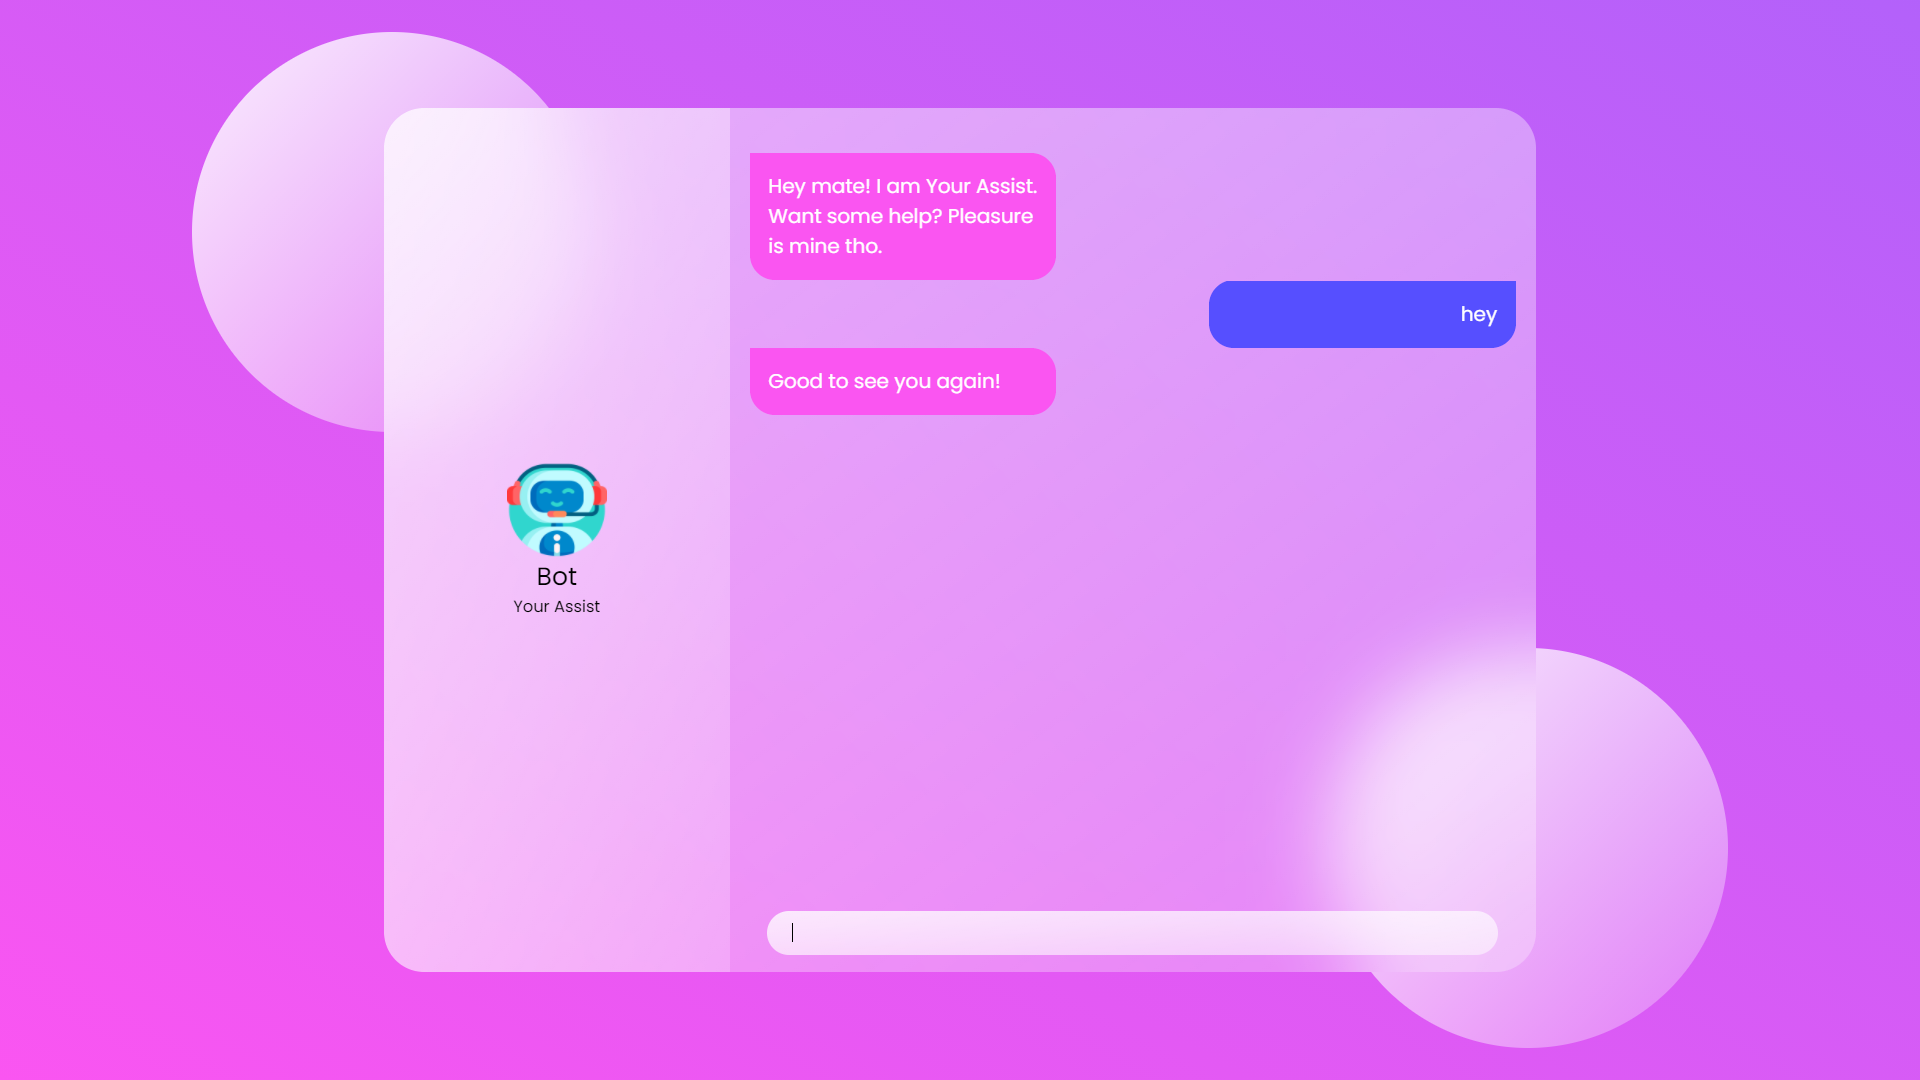
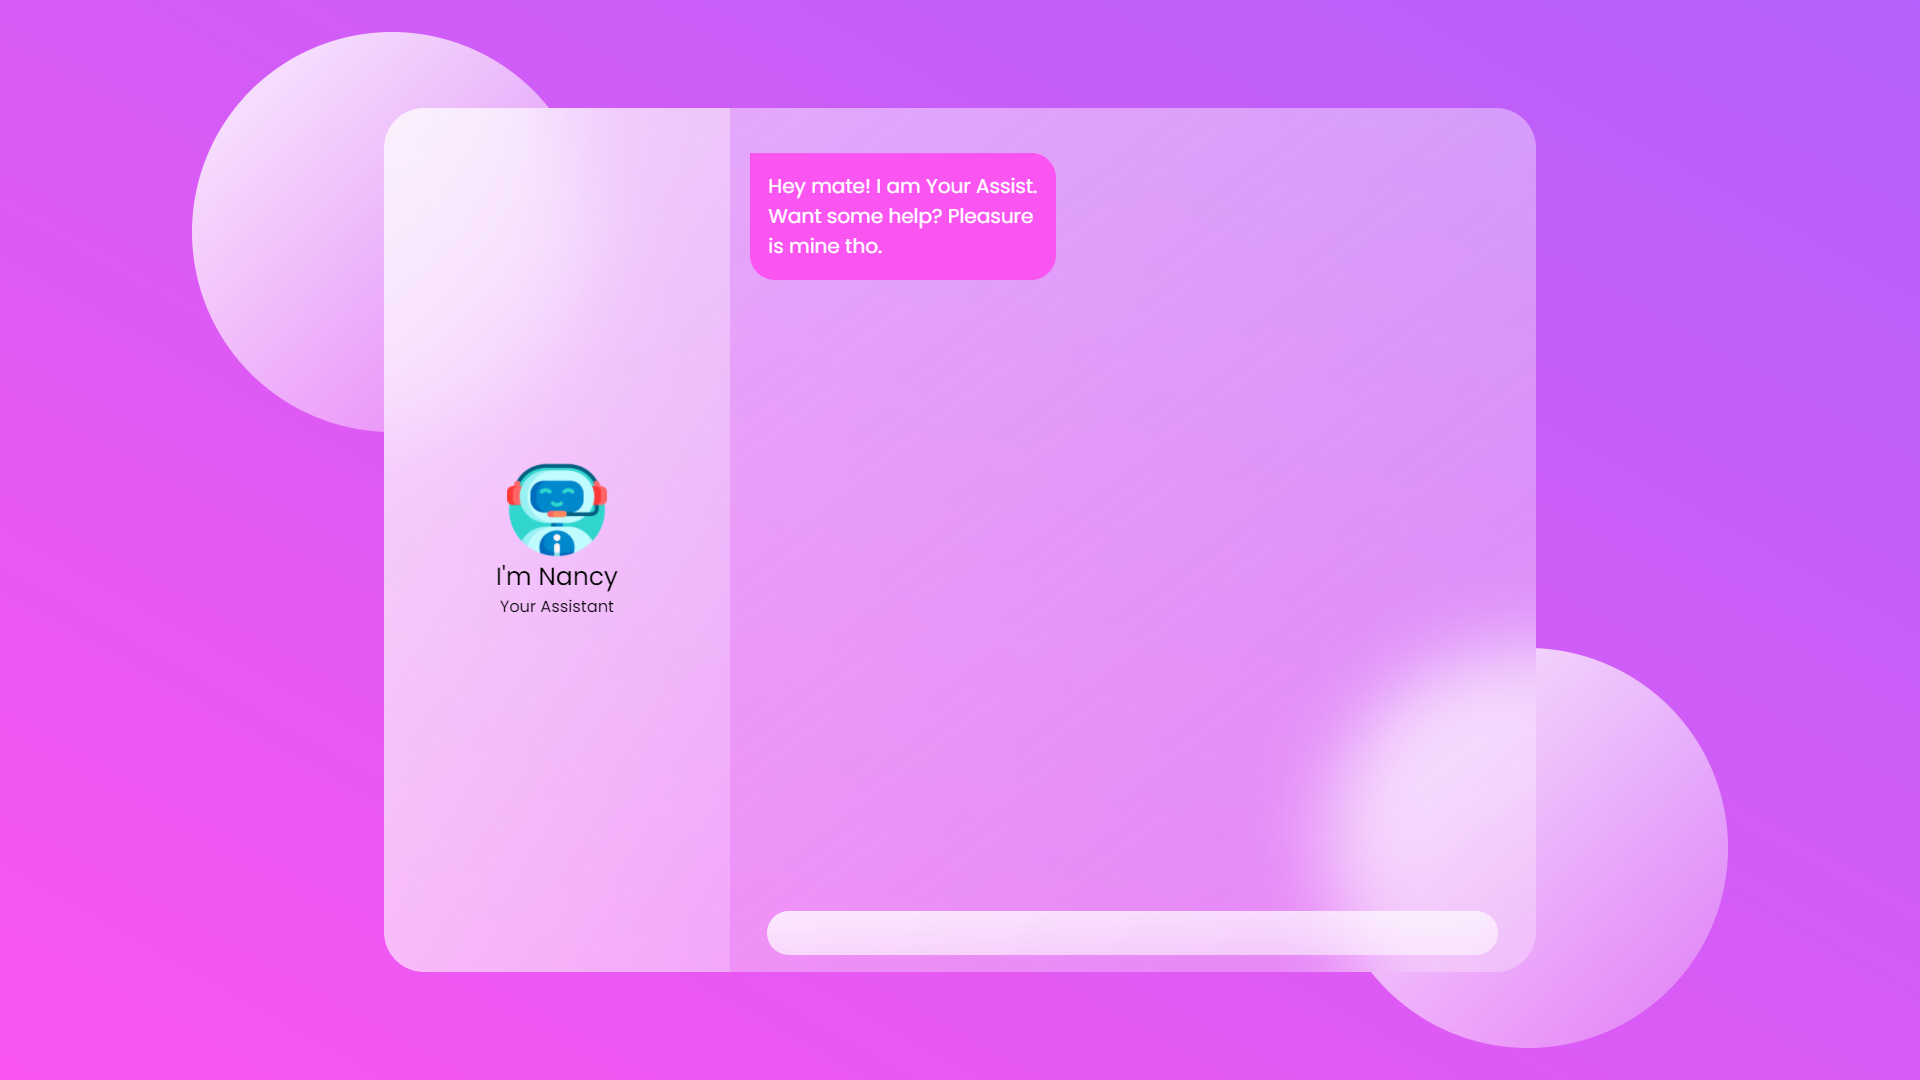
issue fix

Changed region(s): [[0.375, 0.3056, 0.5625, 0.3972], [0.625, 0.2444, 0.8125, 0.3361], [0.25, 0.5194, 0.3125, 0.5806]]

diff --git a/templates/index.html b/templates/index.html
@@ -13,8 +13,8 @@
             <div class="dashboard">
                 <div class="bot">
                     <img src="static/bot.png" alt="bot" height="80px" width="80px">
-                    <h3>Bot</h3>
-                    <p>Your Assist</p>
+                    <h3>I'm Nancy</h3>
+                    <p>Your Assistant</p>
                 </div>
             </div>
             <div class="chat-section">
